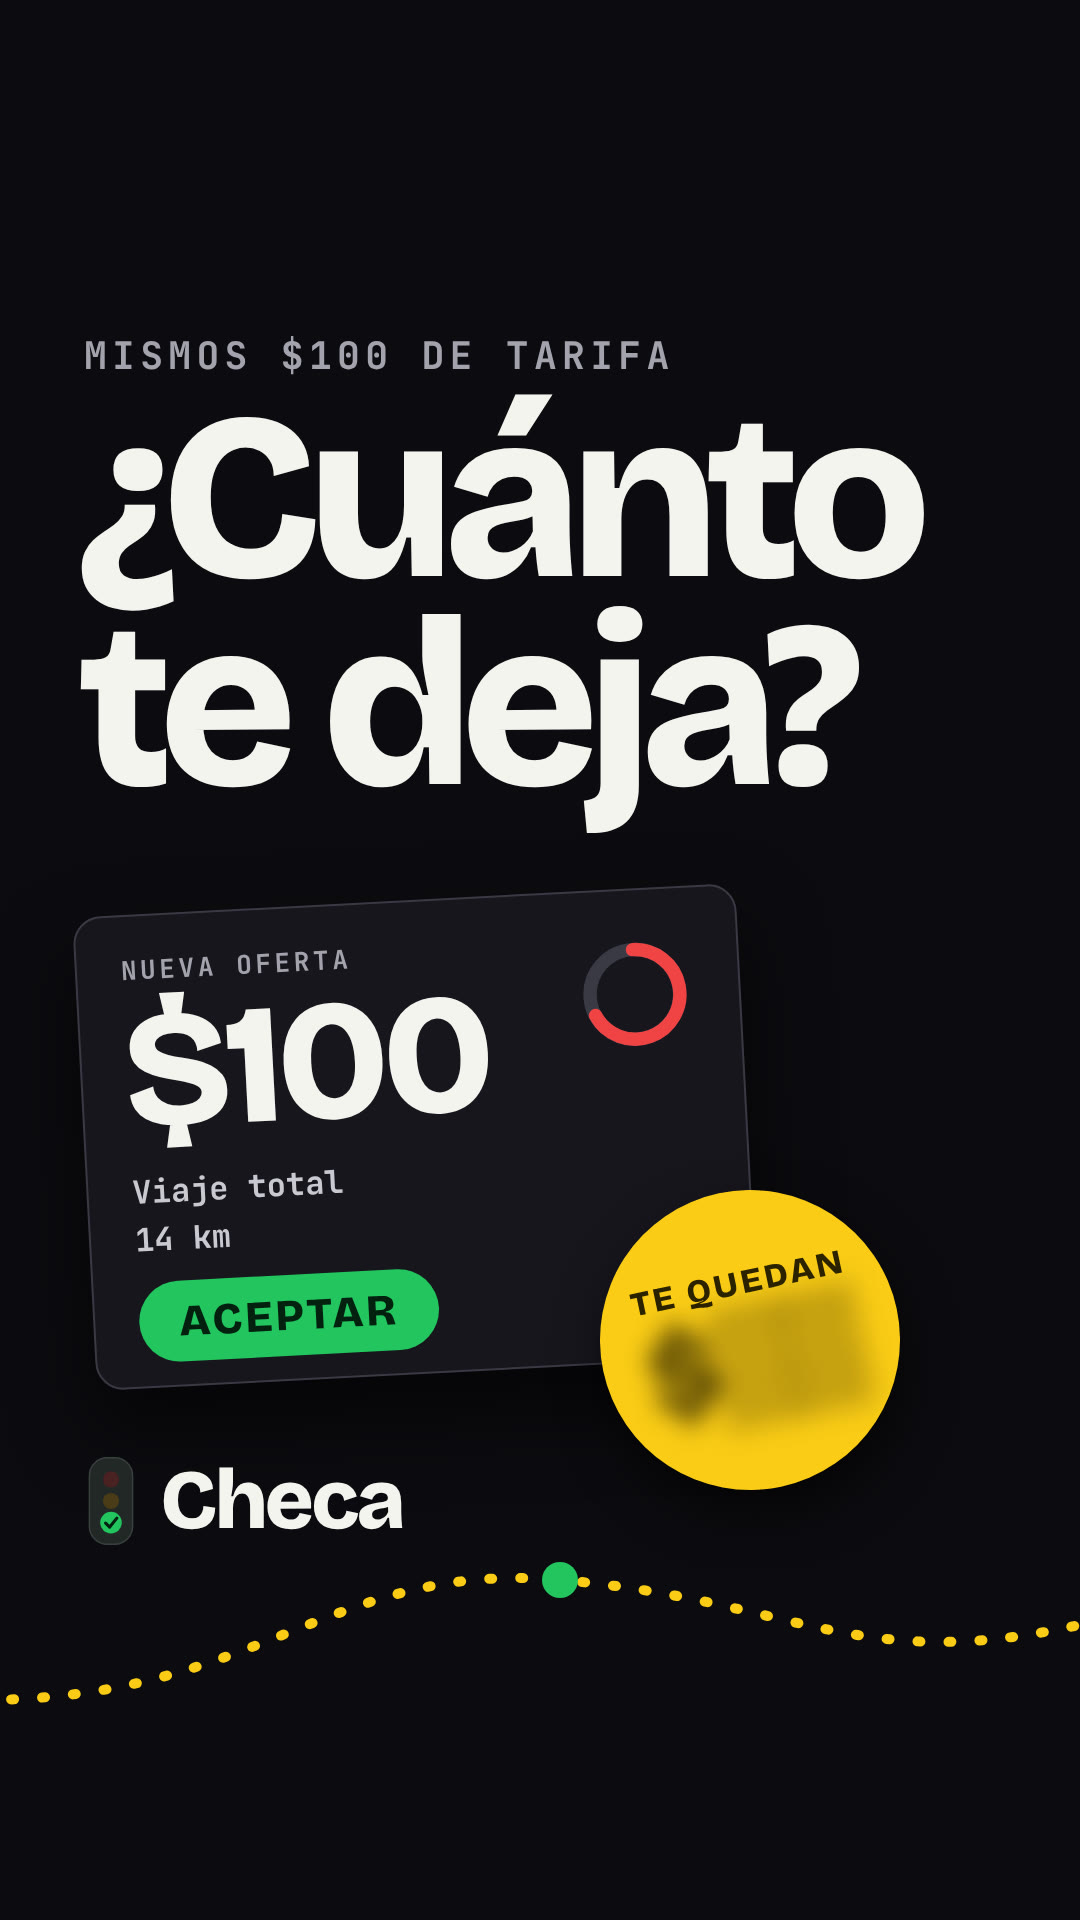
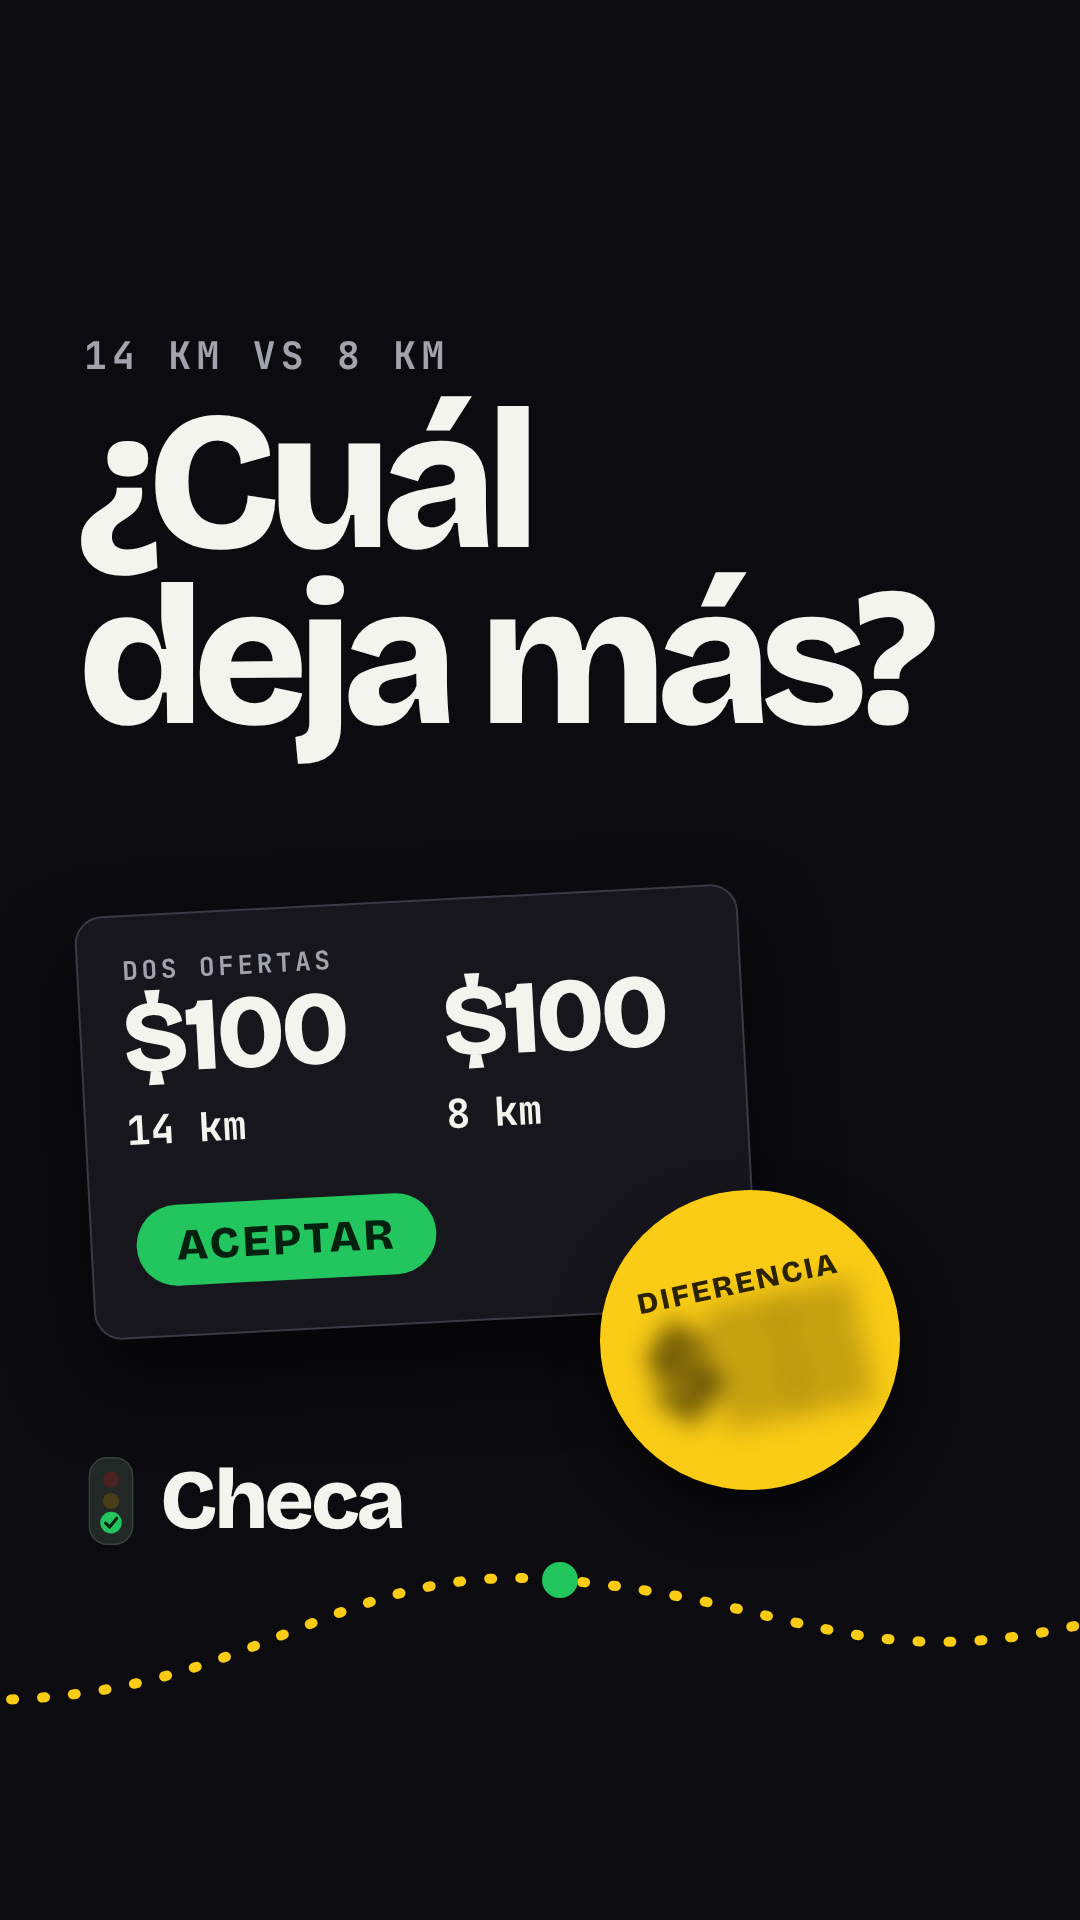
Portada v2 del video 12: «¿Cuál deja más?»
Claude-Session: https://claude.ai/code/session_01ReQriCEKPSrfA7h7H6UL6g

diff --git a/video/hyperframes/comision-v2/portada/portada.html b/video/hyperframes/comision-v2/portada/portada.html
@@ -5,25 +5,27 @@
 html,body{margin:0;width:1080px;height:1920px;overflow:hidden;background:#0C0C10;font-family:DM;color:#F4F4EF}
 .road{position:absolute;left:0;top:0}
 .k{position:absolute;left:84px;top:330px;font-family:JB;font-weight:700;font-size:38px;letter-spacing:.14em;color:#A3A3AD}
-.t{position:absolute;left:78px;top:395px;font-family:BG;font-weight:800;font-size:236px;line-height:.88;letter-spacing:-.06em}
-.card{position:absolute;left:84px;top:900px;width:660px;height:470px;border-radius:28px;background:#16161C;border:2px solid #3A3A45;transform:rotate(-3deg);box-shadow:0 40px 80px rgba(0,0,0,.6)}
+.t{position:absolute;left:78px;top:395px;font-family:BG;font-weight:800;font-size:196px;line-height:.9;white-space:nowrap;letter-spacing:-.06em}
+.card{position:absolute;left:84px;top:900px;width:660px;height:420px;border-radius:28px;background:#16161C;border:2px solid #3A3A45;transform:rotate(-3deg);box-shadow:0 40px 80px rgba(0,0,0,.6)}
 .card .l{position:absolute;left:44px;top:36px;font-family:JB;font-weight:700;font-size:26px;letter-spacing:.14em;color:#A3A3AD}
 .card .f{position:absolute;left:40px;top:70px;font-family:BG;font-weight:800;font-size:170px;letter-spacing:-.05em;line-height:1}
-.card svg{position:absolute;left:500px;top:48px;width:112px;height:112px}
+.card .c1,.card .c2{position:absolute;top:70px}.card .c1{left:40px}.card .c2{left:360px}.card .c1 .f,.card .c2 .f{position:static;font-size:104px}.card .c1 .d,.card .c2 .d{position:static;font-size:40px;margin-top:10px;color:#F4F4EF}.card .d{top:auto}.card svg{display:none;position:absolute;left:500px;top:48px;width:112px;height:112px}
 .card .d{position:absolute;left:44px;top:252px;font-family:JB;font-weight:700;font-size:32px;color:#C9C9D1;line-height:1.5}
-.card .b{position:absolute;left:44px;top:366px;background:#22C55E;color:#04210F;border-radius:999px;padding:14px 40px;font-family:BG;font-weight:800;font-size:44px;letter-spacing:.06em}
+.card .b{position:absolute;left:44px;top:290px;background:#22C55E;color:#04210F;border-radius:999px;padding:14px 40px;font-family:BG;font-weight:800;font-size:44px;letter-spacing:.06em}
 .sello{position:absolute;left:600px;top:1190px;width:300px;height:300px;border-radius:50%;background:#FACC15;color:#2B2200;display:flex;flex-direction:column;align-items:center;justify-content:center;transform:rotate(-12deg);font-family:BG;font-weight:800;line-height:1;box-shadow:0 24px 50px rgba(0,0,0,.6)}
-.sello .a{font-size:34px;letter-spacing:.08em}
+.sello .a{font-size:30px;letter-spacing:.08em}
 .sello .n{font-size:110px;letter-spacing:-.04em;filter:blur(13px);margin-top:6px}
 .logo{position:absolute;left:84px;top:1450px;display:flex;align-items:center;gap:22px}
 .logo span{font-family:BG;font-weight:800;font-size:84px;letter-spacing:-.04em}
 </style></head><body>
 <svg class="road" width="1080" height="1920" viewBox="0 0 1080 1920" aria-hidden="true"><path d="M-20 1700C260 1700 330 1560 560 1580C800 1600 860 1680 1100 1620" fill="none" stroke="#FACC15" stroke-width="10" stroke-dasharray="3 28" stroke-linecap="round"/><circle cx="560" cy="1580" r="18" fill="#22C55E"/></svg>
-<div class="k">MISMOS $100 DE TARIFA</div>
-<div class="t">¿Cuánto<br>te deja?</div>
-<div class="card"><div class="l">NUEVA OFERTA</div><div class="f">$100</div>
+<div class="k">14 KM VS 8 KM</div>
+<div class="t">¿Cuál<br>deja más?</div>
+<div class="card"><div class="l">DOS OFERTAS</div>
+<div class="c1"><div class="f">$100</div><div class="d">14 km</div></div>
+<div class="c2"><div class="f">$100</div><div class="d">8 km</div></div>
 <svg viewBox="0 0 100 100" fill="none"><circle cx="50" cy="50" r="40" stroke="#3A3A45" stroke-width="12"/><path d="M50 10 A40 40 0 1 1 14 67" stroke="#EF4444" stroke-width="12" stroke-linecap="round"/></svg>
-<div class="d">Viaje total<br>14 km</div><div class="b">ACEPTAR</div></div>
-<div class="sello"><div class="a">TE QUEDAN</div><div class="n">$▒▒</div></div>
+<div class="b">ACEPTAR</div></div>
+<div class="sello"><div class="a">DIFERENCIA</div><div class="n">$▒▒</div></div>
 <div class="logo"><svg width="54" height="90" viewBox="0 0 60 100" aria-hidden="true"><rect x="6" y="2" width="48" height="96" rx="20" fill="#222826" stroke="#3A423F" stroke-width="1.6"/><circle cx="30" cy="26" r="9" fill="#4A2222"/><circle cx="30" cy="50" r="9" fill="#4A3C16"/><circle cx="30" cy="74" r="12" fill="#22C55E"/><path d="M24 74.5l4.5 4.5L36.5 69" fill="none" stroke="#04210F" stroke-width="3.4" stroke-linecap="round" stroke-linejoin="round"/></svg><span>Checa</span></div>
 </body></html>

diff --git a/marketing/videos/PERSONAL/12 - Comisión y tarifas/guion.md b/marketing/videos/PERSONAL/12 - Comisión y tarifas/guion.md
@@ -1,6 +1,6 @@
 # Guion · 12 - Comisión y tarifas (PERSONAL, v2)
 
-v1: `marketing/videos/CHECA/12 - Comisión y tarifas/` (publicada 23 oct) · v2: esta carpeta (~38 s con cierre estándar; publica sáb 24 oct). **Estado: guion aprobado; tabla aprobada; portada aprobada; video para aprobar.**
+v1: `marketing/videos/CHECA/12 - Comisión y tarifas/` (publicada 23 oct) · v2: esta carpeta (~38 s con cierre estándar; publica sáb 24 oct). **Estado: guion aprobado; tabla aprobada; portada nueva («¿Cuál deja más?») para aprobar; video de prueba hecho, pendiente.**
 
 ## Auditoría de la v1
 - El gancho abre con la comisión (algo que no se controla) y la queja dura 2 cortes antes de llegar a los $100.
